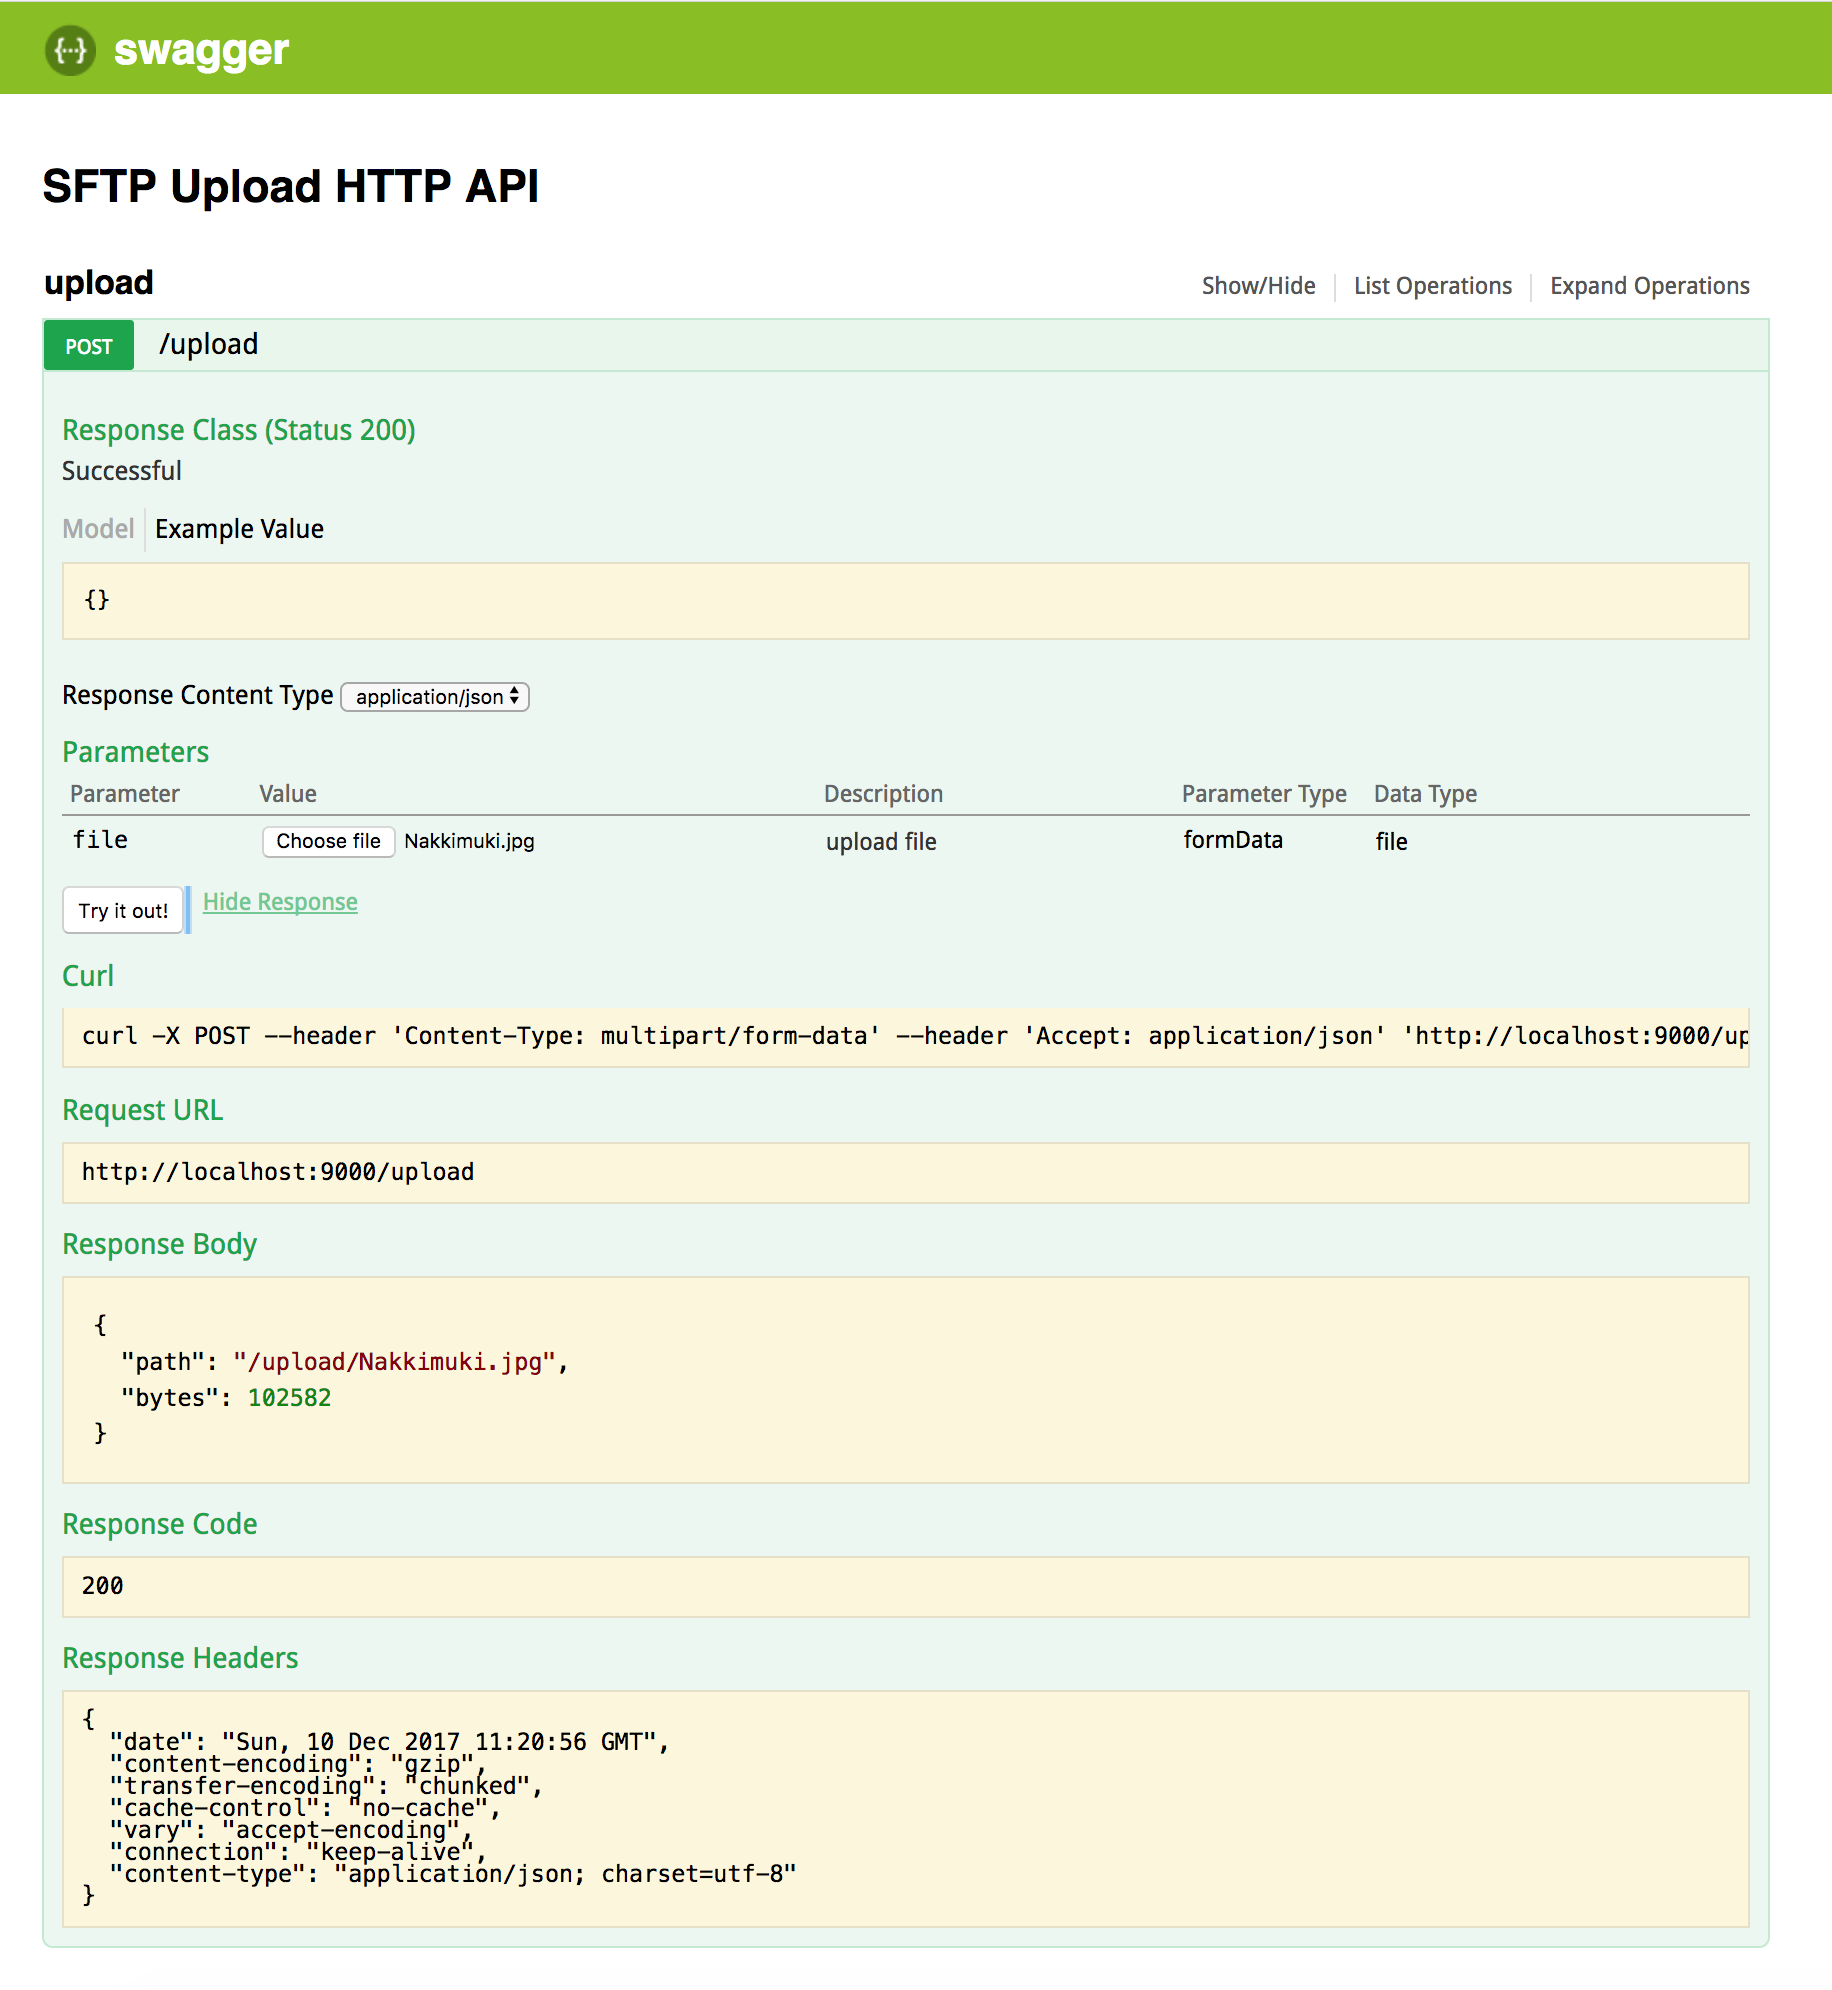
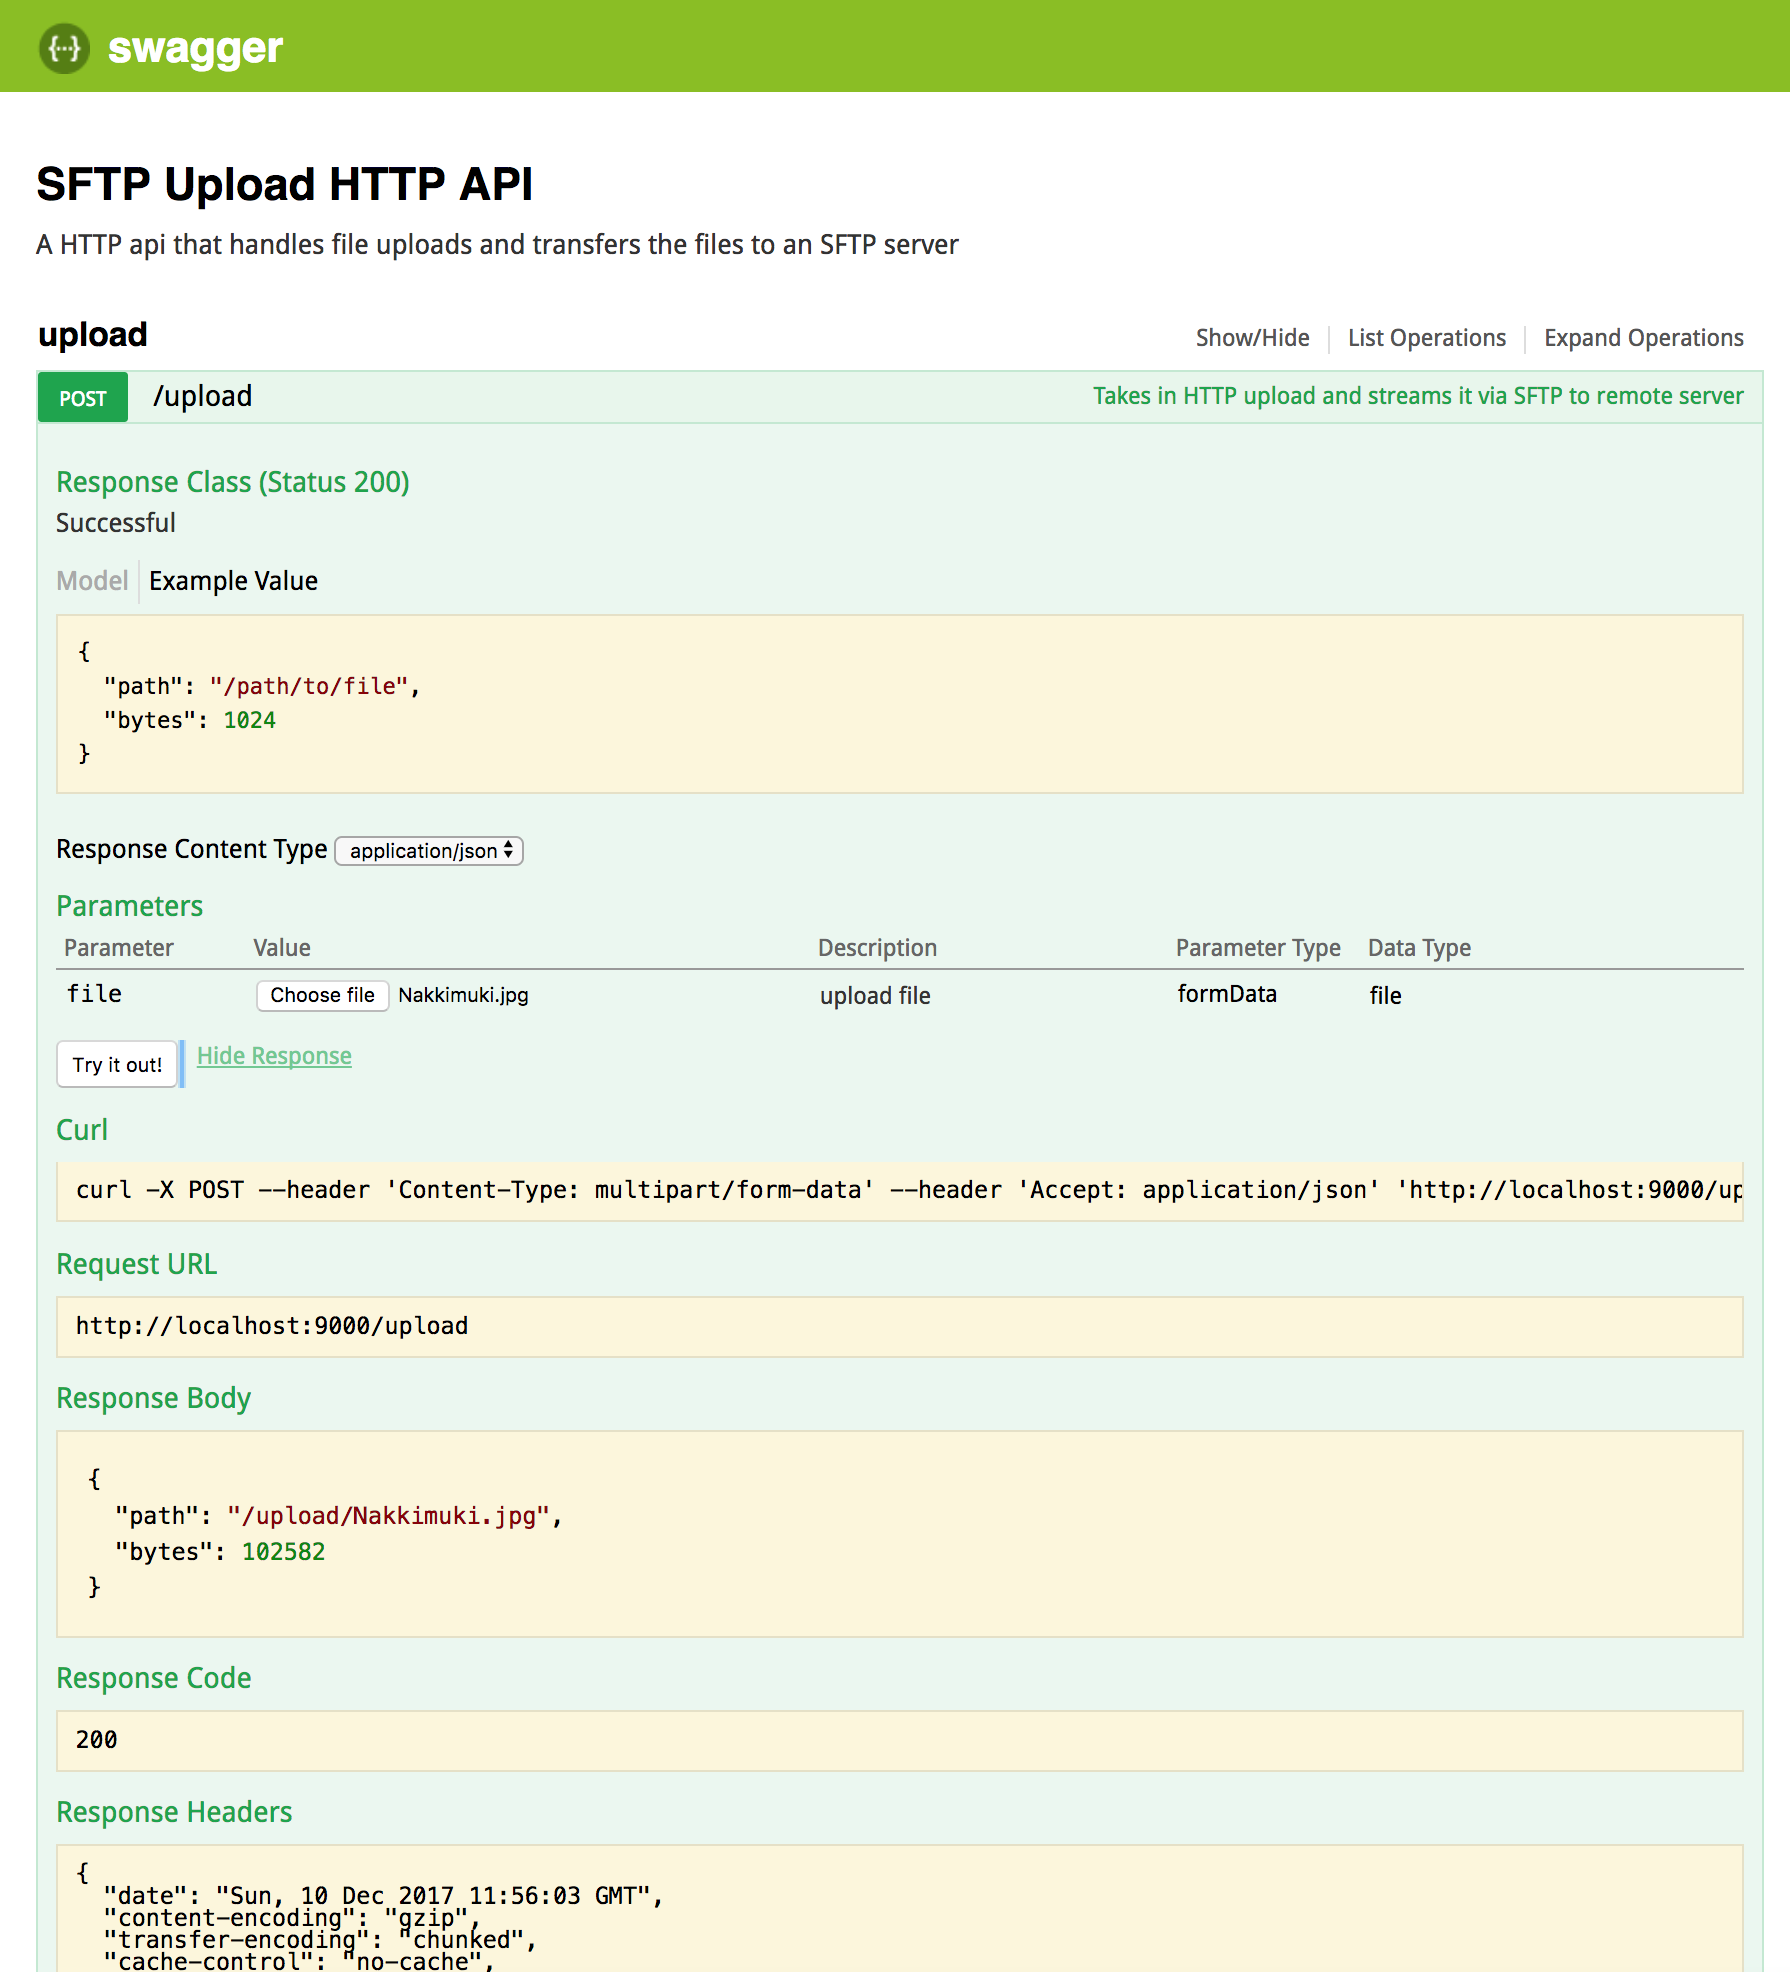
Add response validation + descriptions

diff --git a/src/routes.ts b/src/routes.ts
@@ -9,6 +9,7 @@ export const routes: Hapi.RouteConfiguration[] = [
     path: '/upload',
     config: {
       tags: ['api'],
+      description: 'Takes in HTTP upload and streams it via SFTP to remote server',
       payload: {
         output: 'stream',
         parse: true,
@@ -22,13 +23,18 @@ export const routes: Hapi.RouteConfiguration[] = [
             .description('upload file'),
         },
       },
+      response: {
+        status: {
+          200: Joi.object().keys({
+            path: Joi.string().description('Remote path to uploaded file').example('/path/to/file'),
+            bytes: Joi.number().description('File size of uploaded file').example(1024),
+          }),
+        },
+      },
       plugins: {
         'hapi-swagger': {
           payloadType: 'form',
         },
-      },
-      response: {
-        schema: Joi.object().keys({}).unknown(),
       },
       handler: uploadHandler,
     },

diff --git a/src/server.ts b/src/server.ts
@@ -25,6 +25,7 @@ export async function createServer() {
       options: {
       info: {
         title: 'SFTP Upload HTTP API',
+        description: 'A HTTP api that handles file uploads and transfers the files to an SFTP server',
         version: '1.0.0',
       },
       swaggerUI: true,
